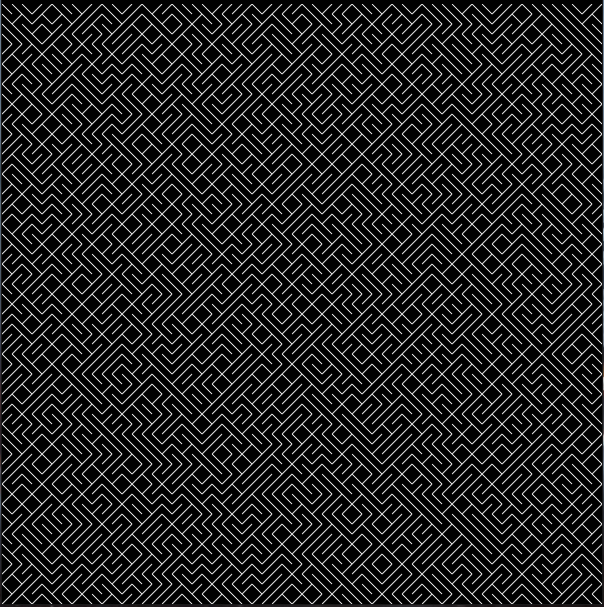
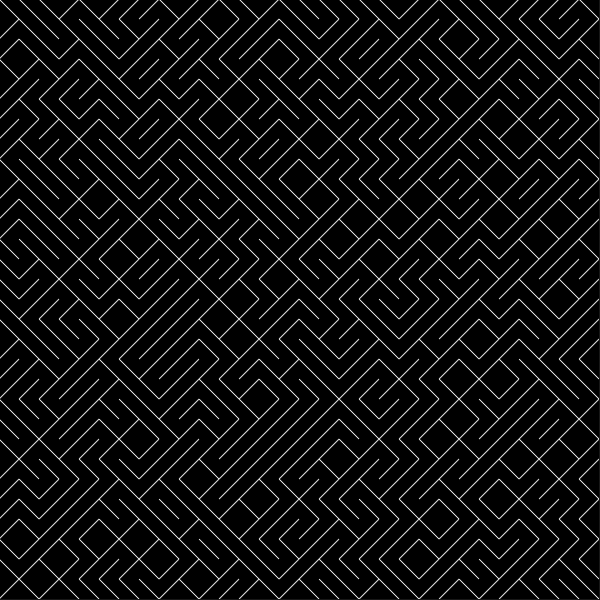
change length of Tiled Lines

diff --git a/TiledLines/draw.cpp b/TiledLines/draw.cpp
@@ -29,7 +29,7 @@ sf::VertexArray getRandomLine(float x, float y, float l) {
 int drawTiledLines() {
 
     std::vector<sf::VertexArray> lines;
-    int length { 10 };
+    int length { 20 };
 
     for (int x{0}; x<constants::width; x+=length) {
         for (int y{0}; y<constants::width; y+=length) {
